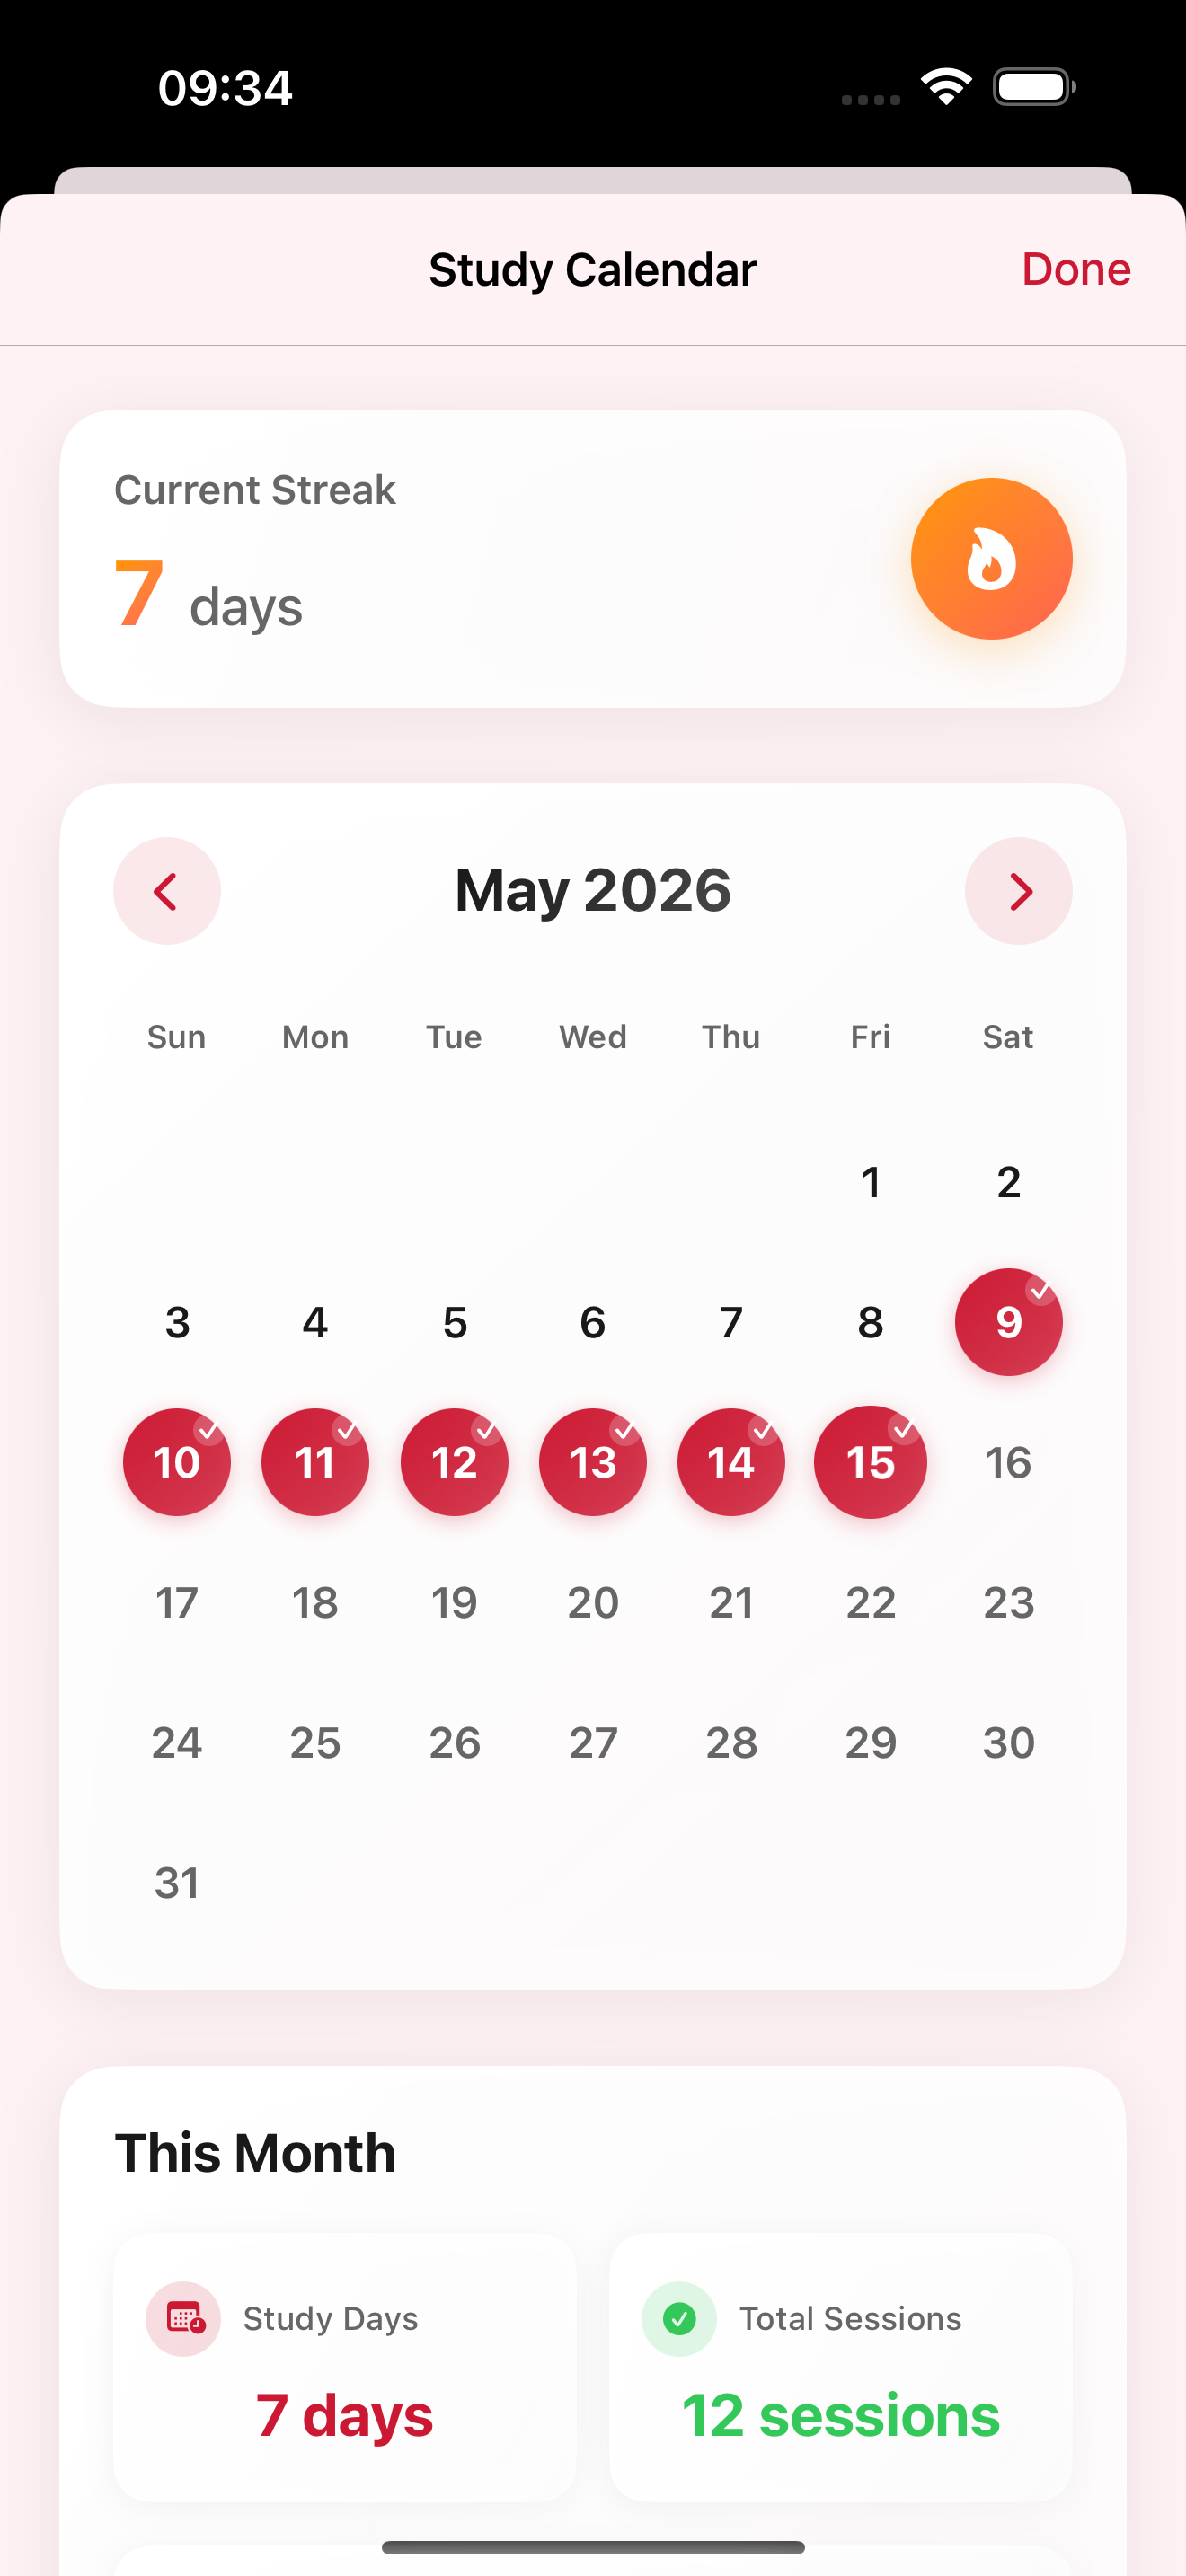
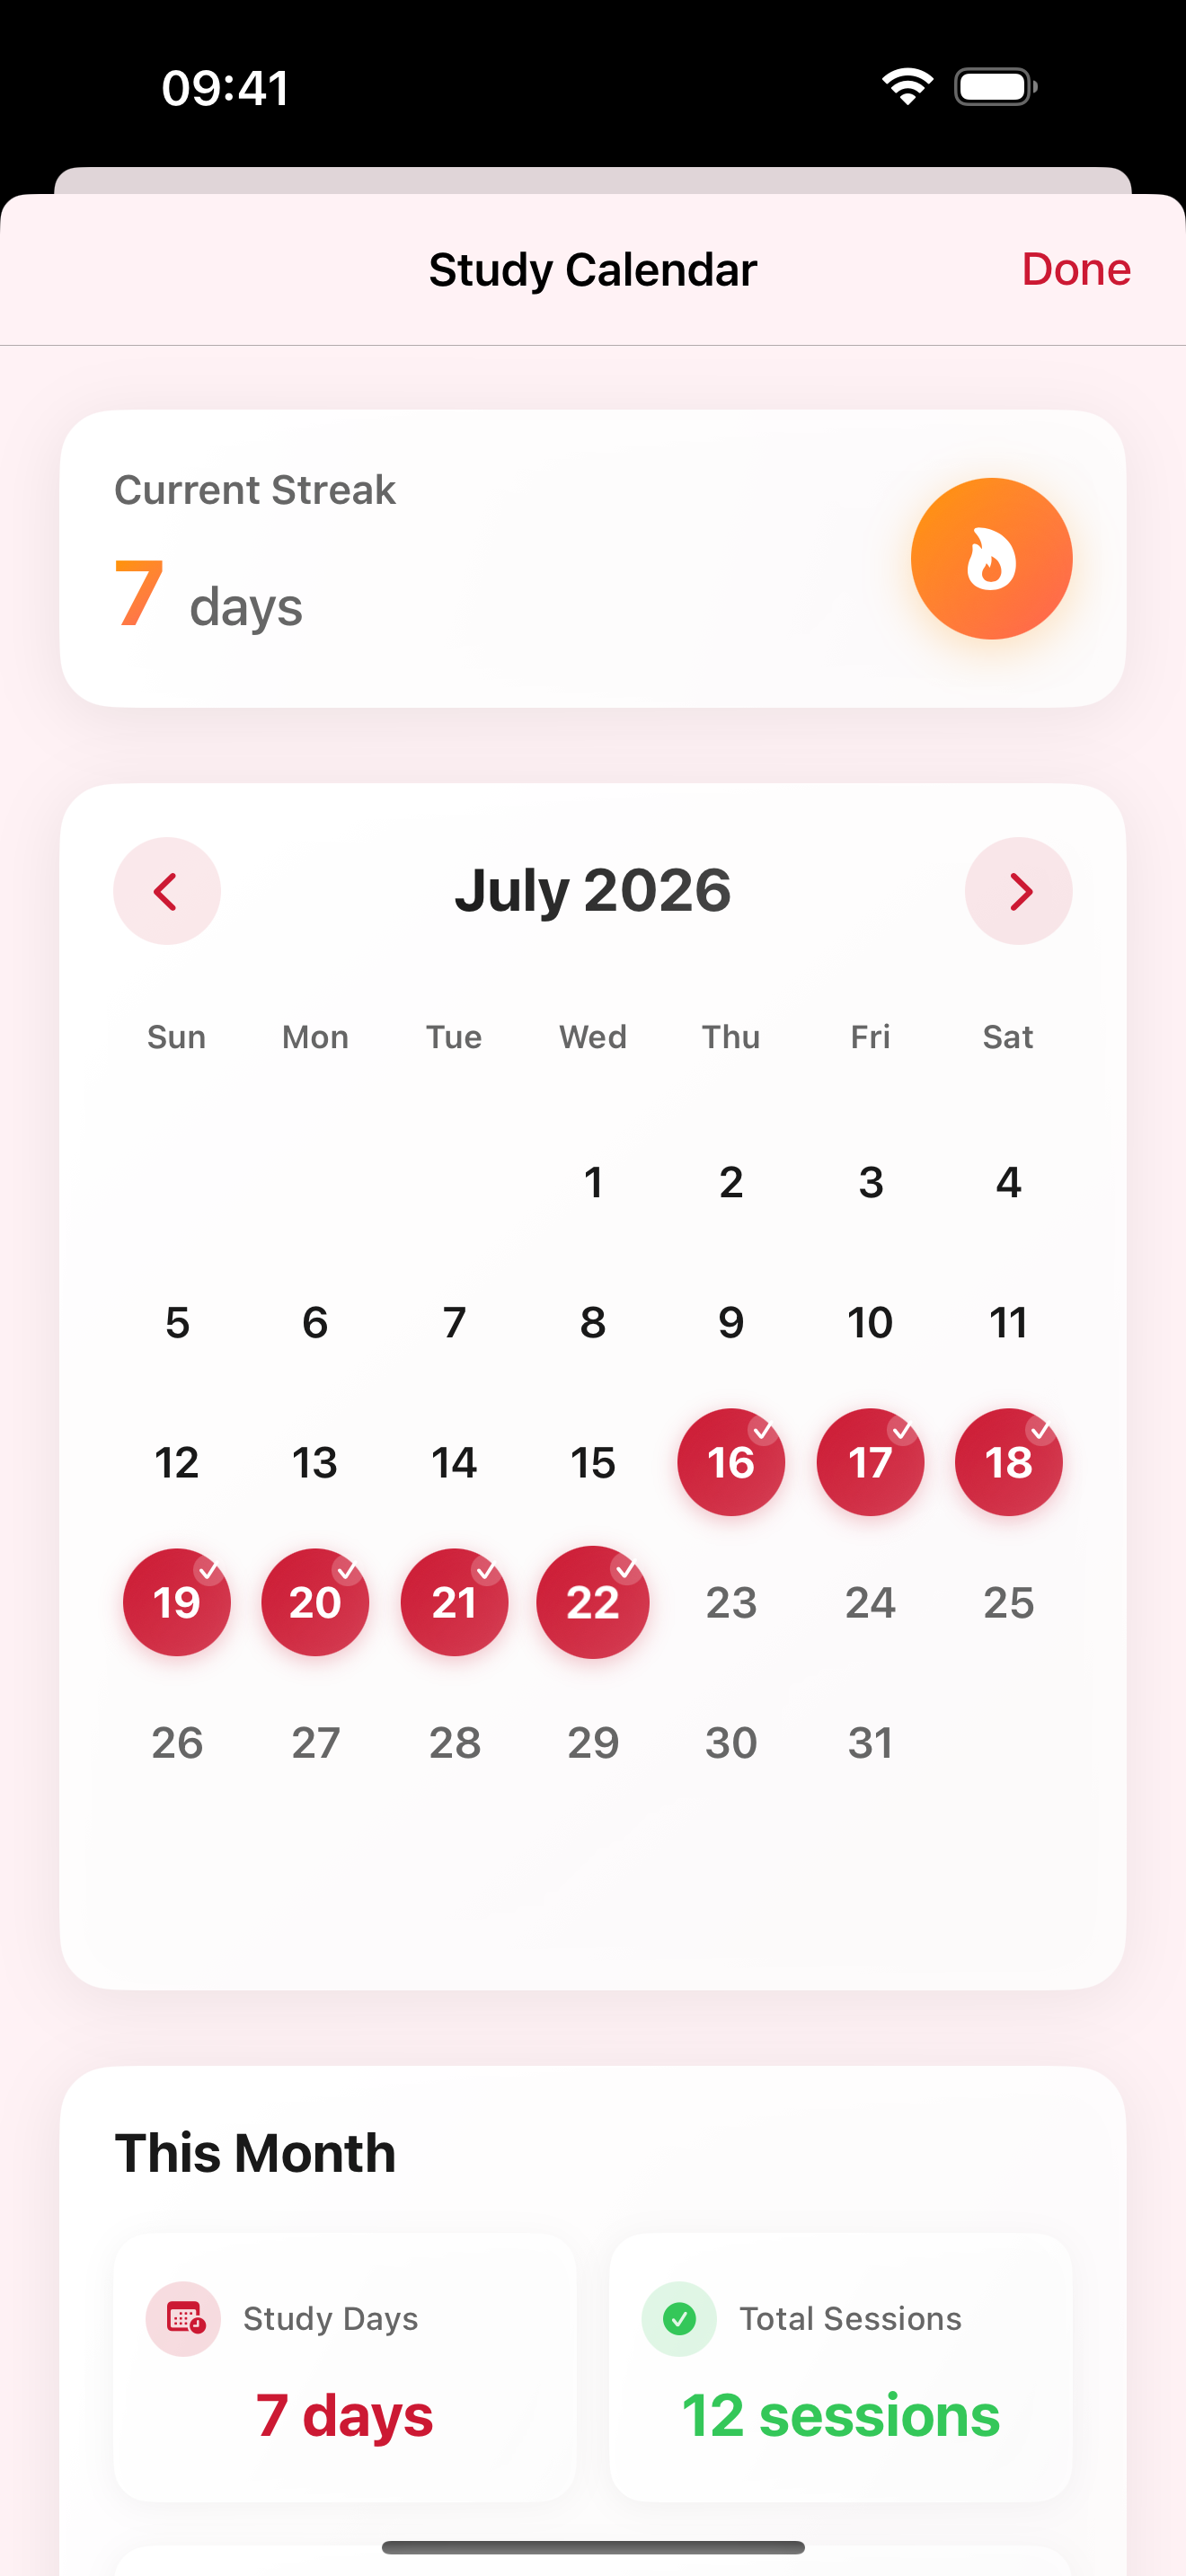
feat: 1.0.1 güncellemesi — canlı App Store linki, yeni özellikler (Odak Sesleri, Baykuş, Watch/iPad) 6 dilde, güncel ekran görüntüleri

diff --git a/index.html b/index.html
@@ -218,7 +218,7 @@
       <h1 class="up" data-i18n="hero_title">Focus in Timed<br />Study Sprints</h1>
       <p class="sub up d1" data-i18n="hero_sub">Beat procrastination with focused study sessions. Set a timer, build daily streaks, and stay motivated — fully offline, no account needed.</p>
       <div class="cta-row up d2">
-        <a class="btn btn-primary" href="#" data-i18n="hero_cta1">Coming Soon to the App Store</a>
+        <a class="btn btn-primary" href="https://apps.apple.com/app/id6788031531" target="_blank" rel="noopener" data-i18n="hero_cta1">Download on the App Store</a>
         <a class="btn btn-dark" href="#features" data-i18n="hero_cta2">See Features</a>
       </div>
       <div class="phones up d4">
@@ -248,7 +248,7 @@
   <!-- FEATURE SPLIT -->
   <section class="band" id="features">
     <div class="wrap split">
-      <div class="phone-single reveal"><img src="./shots/01-home.png" alt="Focus timer" /></div>
+      <div class="phone-single reveal"><img src="./shots/05-owl.png" alt="Your study owl" /></div>
       <div class="reveal d1">
         <span class="eyebrow" data-i18n="f_eyebrow">Smart & Simple</span>
         <h2 class="title" data-i18n="f_title">Everything You Need to Focus</h2>
@@ -257,6 +257,7 @@
           <li><span class="fic">⏱️</span><div><h4 data-i18n="f1_t">Focused Sprints</h4><p data-i18n="f1_d">Pick 20, 40, or a custom duration and start a distraction-free session instantly.</p></div></li>
           <li><span class="fic">🍅</span><div><h4 data-i18n="f2_t">Pomodoro Flow</h4><p data-i18n="f2_d">Proven focus/break cycles keep your mind fresh through long study sessions.</p></div></li>
           <li><span class="fic">🔔</span><div><h4 data-i18n="f3_t">Gentle Reminders</h4><p data-i18n="f3_d">Smart study reminders help you never miss a session.</p></div></li>
+          <li><span class="fic">🎧</span><div><h4 data-i18n="f4_t">Focus Sounds</h4><p data-i18n="f4_d">Mix HD nature ambiances — rain, café, deep space — while you study.</p></div></li>
         </ul>
       </div>
     </div>
@@ -275,6 +276,8 @@
         <div class="card reveal d1"><div class="ic"><svg viewBox="0 0 24 24" fill="none" stroke="currentColor" stroke-width="2" stroke-linecap="round" stroke-linejoin="round"><circle cx="13.5" cy="6.5" r=".5" fill="currentColor"/><circle cx="17.5" cy="10.5" r=".5" fill="currentColor"/><circle cx="8.5" cy="7.5" r=".5" fill="currentColor"/><circle cx="6.5" cy="12.5" r=".5" fill="currentColor"/><path d="M12 2C6.5 2 2 6.5 2 12s4.5 10 10 10c.926 0 1.648-.746 1.648-1.688 0-.437-.18-.835-.437-1.125-.29-.289-.438-.652-.438-1.125a1.64 1.64 0 0 1 1.668-1.668h1.996c3.051 0 5.555-2.503 5.555-5.554C21.965 6.012 17.461 2 12 2z"/></svg></div><h3 data-i18n="g2_t">Beautiful Themes</h3><p data-i18n="g2_d">Pick the color that matches your mood — the app icon even changes to match.</p></div>
         <div class="card reveal d2"><div class="ic"><svg viewBox="0 0 24 24" fill="none" stroke="currentColor" stroke-width="2" stroke-linecap="round" stroke-linejoin="round"><line x1="12" x2="12" y1="20" y2="10"/><line x1="18" x2="18" y1="20" y2="4"/><line x1="6" x2="6" y1="20" y2="16"/></svg></div><h3 data-i18n="g3_t">Progress Insights</h3><p data-i18n="g3_d">See completed sessions and streaks at a glance to stay motivated.</p></div>
         <div class="card reveal d3"><div class="ic"><svg viewBox="0 0 24 24" fill="none" stroke="currentColor" stroke-width="2" stroke-linecap="round" stroke-linejoin="round"><path d="M12 20h.01"/><path d="M8.5 16.429a5 5 0 0 1 7 0"/><path d="M5 12.859a10 10 0 0 1 5.17-2.69"/><path d="M19 12.859a10 10 0 0 0-2.007-1.523"/><path d="M2 8.82a15 15 0 0 1 4.177-2.643"/><path d="M22 8.82a15 15 0 0 0-11.288-3.764"/><path d="m2 2 20 20"/></svg></div><h3 data-i18n="g4_t">100% Offline</h3><p data-i18n="g4_d">No sign-up, no account, no distractions. Your data stays on your device.</p></div>
+        <div class="card reveal"><div class="ic"><svg viewBox="0 0 24 24" fill="none" stroke="currentColor" stroke-width="2" stroke-linecap="round" stroke-linejoin="round"><path d="M12 3c-3.5 0-6 2.6-6 6v5a6 6 0 0 0 12 0V9c0-3.4-2.5-6-6-6Z"/><circle cx="9.5" cy="10" r="1"/><circle cx="14.5" cy="10" r="1"/><path d="M12 13v1"/><path d="m8 3 1.5 2M16 3l-1.5 2"/></svg></div><h3 data-i18n="g5_t">Your Study Owl</h3><p data-i18n="g5_d">Earn coins as you study — unlock rooms, outfits and achievements for your owl.</p></div>
+        <div class="card reveal d1"><div class="ic"><svg viewBox="0 0 24 24" fill="none" stroke="currentColor" stroke-width="2" stroke-linecap="round" stroke-linejoin="round"><rect width="7" height="12" x="2" y="6" rx="1"/><path d="M5.5 4v2M5.5 18v2"/><rect width="10" height="14" x="12" y="5" rx="1.5"/><path d="M16 17h2"/></svg></div><h3 data-i18n="g6_t">Watch & iPad</h3><p data-i18n="g6_d">Start sprints from your wrist with the Apple Watch app — now with full iPad support.</p></div>
       </div>
     </div>
   </section>
@@ -299,8 +302,8 @@
     <div class="wrap">
       <div class="cta reveal">
         <h2 data-i18n="cta_title">Turn Scattered Hours into Focused Sprints</h2>
-        <p data-i18n="cta_sub">Study Sprint Timer is launching soon on the App Store. Simple, offline, and built to help you focus.</p>
-        <a class="btn btn-ghost" href="./support.html" data-i18n="cta_btn">Get Notified</a>
+        <p data-i18n="cta_sub">Study Sprint Timer is now on the App Store. Simple, offline, and built to help you focus.</p>
+        <a class="btn btn-ghost" href="https://apps.apple.com/app/id6788031531" target="_blank" rel="noopener" data-i18n="cta_btn">Download Now</a>
       </div>
     </div>
   </section>
@@ -313,7 +316,7 @@
         <div>
           <a class="brand" href="./index.html"><img src="./icon.png" alt="" style="width:34px;height:34px;border-radius:9px;" /> Study Sprint</a>
           <p class="desc" data-i18n="ft_desc">Focus, Pomodoro & streaks — a simple offline study timer for everyday focus.</p>
-          <span class="ft-badge"><span class="dot"></span> <span data-i18n="ft_badge">Coming soon to the App Store</span></span>
+          <span class="ft-badge"><span class="dot"></span> <span data-i18n="ft_badge">Now on the App Store</span></span>
         </div>
         <div>
           <h5 data-i18n="ft_productH">Product</h5>
@@ -348,7 +351,7 @@
         nav_home:`Home`, nav_features:`Features`, nav_reviews:`Reviews`, nav_support:`Support`, nav_help:`Get Help`,
         hero_title:`Focus in Timed<br />Study Sprints`,
         hero_sub:`Beat procrastination with focused study sessions. Set a timer, build daily streaks, and stay motivated — fully offline, no account needed.`,
-        hero_cta1:`Coming Soon to the App Store`, hero_cta2:`See Features`,
+        hero_cta1:`Download on the App Store`, hero_cta2:`See Features`,
         p_eyebrow:`The Struggle`, p_title:`Studying Without Structure Feels Hard`,
         p_sub:`Focus is easy to lose and hard to rebuild. Most study tools are cluttered, online-only, or simply get in the way.`,
         p1_t:`Endless Distractions`, p1_d:`Notifications and open tabs pull your attention away the moment you sit down to study.`,
@@ -359,18 +362,21 @@
         f1_t:`Focused Sprints`, f1_d:`Pick 20, 40, or a custom duration and start a distraction-free session instantly.`,
         f2_t:`Pomodoro Flow`, f2_d:`Proven focus/break cycles keep your mind fresh through long study sessions.`,
         f3_t:`Gentle Reminders`, f3_d:`Smart study reminders help you never miss a session.`,
+        f4_t:`Focus Sounds`, f4_d:`Mix HD nature ambiances — rain, café, deep space — while you study.`,
         g_eyebrow:`Smart Features`, g_title:`Designed for Simple Daily Study`,
         g_sub:`Every feature guides you gently — turning study time into clear progress and a habit that sticks.`,
         g1_t:`Daily Streaks`, g1_d:`Build a study habit that lasts. Watch your streak grow one day at a time.`,
         g2_t:`Beautiful Themes`, g2_d:`Pick the color that matches your mood — the app icon even changes to match.`,
         g3_t:`Progress Insights`, g3_d:`See completed sessions and streaks at a glance to stay motivated.`,
         g4_t:`100% Offline`, g4_d:`No sign-up, no account, no distractions. Your data stays on your device.`,
+        g5_t:`Your Study Owl`, g5_d:`Earn coins as you study — unlock rooms, outfits and achievements for your owl.`,
+        g6_t:`Watch & iPad`, g6_d:`Start sprints from your wrist with the Apple Watch app — now with full iPad support.`,
         r_eyebrow:`Loved by Students`, r_title:`Study Companions, Not Chores`,
         q1:`"Feels less like a strict timer and more like a calm study buddy that keeps me going."`, q1_role:`Student`,
         q2:`"My streak hit 21 days — I've genuinely never been this consistent with studying."`, q2_role:`Grad Student`,
         q3:`"Clean, quiet, and works fully offline. Exactly the focus tool I was missing."`, q3_role:`Designer`,
-        cta_title:`Turn Scattered Hours into Focused Sprints`, cta_sub:`Study Sprint Timer is launching soon on the App Store. Simple, offline, and built to help you focus.`, cta_btn:`Get Notified`,
-        ft_desc:`Focus, Pomodoro & streaks — a simple offline study timer for everyday focus.`, ft_badge:`Coming soon to the App Store`,
+        cta_title:`Turn Scattered Hours into Focused Sprints`, cta_sub:`Study Sprint Timer is now on the App Store. Simple, offline, and built to help you focus.`, cta_btn:`Download Now`,
+        ft_desc:`Focus, Pomodoro & streaks — a simple offline study timer for everyday focus.`, ft_badge:`Now on the App Store`,
         ft_productH:`Product`, ft_supportH:`Support`, ft_legalH:`Legal`,
         ft_features:`Features`, ft_how:`How It Works`, ft_reviews:`Reviews`, ft_help:`Help Center`, ft_contact:`Contact Us`, ft_privacy:`Privacy Policy`, ft_terms:`Terms of Service`,
         ft_copy:`© 2026 Study Sprint Timer · Harun Doğdu`
@@ -379,7 +385,7 @@
         nav_home:`Ana Sayfa`, nav_features:`Özellikler`, nav_reviews:`Yorumlar`, nav_support:`Destek`, nav_help:`Yardım Al`,
         hero_title:`Zamanlı Çalışma<br />Sprint'leriyle Odaklan`,
         hero_sub:`Odaklı çalışma seanslarıyla erteleme alışkanlığını yen. Zamanlayıcıyı kur, günlük seriler oluştur ve motive kal — tamamen çevrimdışı, hesap gerekmez.`,
-        hero_cta1:`Yakında App Store'da`, hero_cta2:`Özellikleri Gör`,
+        hero_cta1:`App Store'dan İndir`, hero_cta2:`Özellikleri Gör`,
         p_eyebrow:`Zorluk`, p_title:`Düzensiz Çalışmak Zor Geliyor`,
         p_sub:`Odak kolayca kaybolur, yeniden kurmak zordur. Çoğu çalışma aracı karmaşık, yalnızca çevrimiçi ya da yolunda engeldir.`,
         p1_t:`Bitmeyen Dikkat Dağınıklığı`, p1_d:`Çalışmaya oturduğun an bildirimler ve açık sekmeler dikkatini dağıtır.`,
@@ -390,18 +396,21 @@
         f1_t:`Odaklı Sprint'ler`, f1_d:`20, 40 veya özel bir süre seç ve anında dikkat dağıtmayan bir seans başlat.`,
         f2_t:`Pomodoro Akışı`, f2_d:`Kanıtlanmış odak/mola döngüleri uzun seanslarda zihnini zinde tutar.`,
         f3_t:`Nazik Hatırlatıcılar`, f3_d:`Akıllı çalışma hatırlatıcıları hiçbir seansı kaçırmamanı sağlar.`,
+        f4_t:`Odak Sesleri`, f4_d:`Çalışırken HD doğa ambiyanslarını karıştır — yağmur, kafe, derin uzay.`,
         g_eyebrow:`Akıllı Özellikler`, g_title:`Basit Günlük Çalışma İçin Tasarlandı`,
         g_sub:`Her özellik seni nazikçe yönlendirir — çalışma zamanını net ilerlemeye ve kalıcı bir alışkanlığa dönüştürür.`,
         g1_t:`Günlük Seriler`, g1_d:`Kalıcı bir çalışma alışkanlığı oluştur. Serini her gün büyürken izle.`,
         g2_t:`Güzel Temalar`, g2_d:`Ruh hâline uyan rengi seç — uygulama ikonu bile buna göre değişir.`,
         g3_t:`İlerleme Görünümü`, g3_d:`Tamamlanan seansları ve serileri tek bakışta gör, motive kal.`,
         g4_t:`%100 Çevrimdışı`, g4_d:`Kayıt yok, hesap yok, dikkat dağıtan yok. Verilerin cihazında kalır.`,
+        g5_t:`Çalışma Baykuşun`, g5_d:`Çalıştıkça coin kazan — baykuşun için odalar, kostümler ve başarımlar aç.`,
+        g6_t:`Watch ve iPad`, g6_d:`Apple Watch uygulamasıyla sprintleri bileğinden başlat — artık tam iPad desteğiyle.`,
         r_eyebrow:`Öğrenciler Seviyor`, r_title:`Yük Değil, Çalışma Arkadaşı`,
         q1:`"Katı bir zamanlayıcıdan çok, beni motive eden sakin bir çalışma arkadaşı gibi."`, q1_role:`Öğrenci`,
         q2:`"Serim 21 güne ulaştı — çalışmada hiç bu kadar istikrarlı olmamıştım."`, q2_role:`Yüksek Lisans Öğrencisi`,
         q3:`"Sade, sessiz ve tamamen çevrimdışı çalışıyor. Tam da eksik olan odak aracı."`, q3_role:`Tasarımcı`,
-        cta_title:`Dağınık Saatleri Odaklı Sprint'lere Çevir`, cta_sub:`Study Sprint Timer yakında App Store'da. Basit, çevrimdışı ve odaklanmana yardımcı olacak şekilde tasarlandı.`, cta_btn:`Haber Ver`,
-        ft_desc:`Odak, Pomodoro ve seriler — günlük odak için basit, çevrimdışı bir çalışma zamanlayıcısı.`, ft_badge:`Yakında App Store'da`,
+        cta_title:`Dağınık Saatleri Odaklı Sprint'lere Çevir`, cta_sub:`Study Sprint Timer artık App Store'da. Basit, çevrimdışı ve odaklanmana yardımcı olacak şekilde tasarlandı.`, cta_btn:`Hemen İndir`,
+        ft_desc:`Odak, Pomodoro ve seriler — günlük odak için basit, çevrimdışı bir çalışma zamanlayıcısı.`, ft_badge:`Artık App Store'da`,
         ft_productH:`Ürün`, ft_supportH:`Destek`, ft_legalH:`Yasal`,
         ft_features:`Özellikler`, ft_how:`Nasıl Çalışır`, ft_reviews:`Yorumlar`, ft_help:`Yardım Merkezi`, ft_contact:`Bize Ulaşın`, ft_privacy:`Gizlilik Politikası`, ft_terms:`Kullanım Şartları`,
         ft_copy:`© 2026 Study Sprint Timer · Harun Doğdu`
@@ -410,7 +419,7 @@
         nav_home:`Start`, nav_features:`Funktionen`, nav_reviews:`Bewertungen`, nav_support:`Support`, nav_help:`Hilfe`,
         hero_title:`Fokussiert lernen in<br />getakteten Sprints`,
         hero_sub:`Überwinde Aufschieberei mit fokussierten Lernsessions. Timer stellen, tägliche Serien aufbauen und motiviert bleiben — komplett offline, kein Konto nötig.`,
-        hero_cta1:`Bald im App Store`, hero_cta2:`Funktionen ansehen`,
+        hero_cta1:`Jetzt im App Store laden`, hero_cta2:`Funktionen ansehen`,
         p_eyebrow:`Die Herausforderung`, p_title:`Lernen ohne Struktur fällt schwer`,
         p_sub:`Fokus geht leicht verloren und ist schwer wiederherzustellen. Die meisten Lern-Tools sind überladen, nur online oder einfach im Weg.`,
         p1_t:`Endlose Ablenkungen`, p1_d:`Benachrichtigungen und offene Tabs ziehen deine Aufmerksamkeit ab, sobald du dich hinsetzt.`,
@@ -421,18 +430,21 @@
         f1_t:`Fokussierte Sprints`, f1_d:`Wähle 20, 40 oder eine eigene Dauer und starte sofort eine ablenkungsfreie Session.`,
         f2_t:`Pomodoro-Flow`, f2_d:`Bewährte Fokus-/Pausen-Zyklen halten deinen Kopf auch bei langen Sessions frisch.`,
         f3_t:`Sanfte Erinnerungen`, f3_d:`Smarte Lern-Erinnerungen sorgen dafür, dass du keine Session verpasst.`,
+        f4_t:`Fokus-Sounds`, f4_d:`Mische HD-Naturambiente — Regen, Café, Weltall — während du lernst.`,
         g_eyebrow:`Smarte Funktionen`, g_title:`Für einfaches tägliches Lernen gemacht`,
         g_sub:`Jede Funktion leitet dich sanft — sie macht Lernzeit zu klarem Fortschritt und einer bleibenden Gewohnheit.`,
         g1_t:`Tägliche Serien`, g1_d:`Baue eine dauerhafte Lerngewohnheit auf. Sieh deiner Serie beim Wachsen zu.`,
         g2_t:`Schöne Themes`, g2_d:`Wähle die Farbe, die zu deiner Stimmung passt — sogar das App-Icon passt sich an.`,
         g3_t:`Fortschritts-Einblicke`, g3_d:`Sieh abgeschlossene Sessions und Serien auf einen Blick und bleib motiviert.`,
         g4_t:`100 % Offline`, g4_d:`Keine Anmeldung, kein Konto, keine Ablenkung. Deine Daten bleiben auf deinem Gerät.`,
+        g5_t:`Deine Lern-Eule`, g5_d:`Verdiene Coins beim Lernen — schalte Räume, Outfits und Erfolge für deine Eule frei.`,
+        g6_t:`Watch & iPad`, g6_d:`Starte Sprints mit der Apple-Watch-App vom Handgelenk — jetzt mit voller iPad-Unterstützung.`,
         r_eyebrow:`Von Lernenden geliebt`, r_title:`Lernbegleiter statt Pflicht`,
         q1:`„Fühlt sich weniger wie ein strenger Timer an und mehr wie ein ruhiger Lernbuddy."`, q1_role:`Studentin`,
         q2:`„Meine Serie liegt bei 21 Tagen — so konstant war ich beim Lernen noch nie."`, q2_role:`Masterstudent`,
         q3:`„Klar, ruhig und komplett offline. Genau das Fokus-Tool, das mir gefehlt hat."`, q3_role:`Designerin`,
-        cta_title:`Mach aus verstreuten Stunden fokussierte Sprints`, cta_sub:`Study Sprint Timer erscheint bald im App Store. Einfach, offline und fürs Fokussieren gemacht.`, cta_btn:`Benachrichtigen`,
-        ft_desc:`Fokus, Pomodoro & Serien — ein einfacher, offline Lern-Timer für den Alltag.`, ft_badge:`Bald im App Store`,
+        cta_title:`Mach aus verstreuten Stunden fokussierte Sprints`, cta_sub:`Study Sprint Timer ist jetzt im App Store. Einfach, offline und fürs Fokussieren gemacht.`, cta_btn:`Jetzt laden`,
+        ft_desc:`Fokus, Pomodoro & Serien — ein einfacher, offline Lern-Timer für den Alltag.`, ft_badge:`Jetzt im App Store`,
         ft_productH:`Produkt`, ft_supportH:`Support`, ft_legalH:`Rechtliches`,
         ft_features:`Funktionen`, ft_how:`So funktioniert's`, ft_reviews:`Bewertungen`, ft_help:`Hilfe-Center`, ft_contact:`Kontakt`, ft_privacy:`Datenschutz`, ft_terms:`Nutzungsbedingungen`,
         ft_copy:`© 2026 Study Sprint Timer · Harun Doğdu`
@@ -441,7 +453,7 @@
         nav_home:`Inicio`, nav_features:`Funciones`, nav_reviews:`Opiniones`, nav_support:`Soporte`, nav_help:`Ayuda`,
         hero_title:`Concéntrate en sprints<br />de estudio cronometrados`,
         hero_sub:`Vence la procrastinación con sesiones de estudio enfocadas. Pon un temporizador, crea rachas diarias y mantén la motivación — totalmente sin conexión, sin cuenta.`,
-        hero_cta1:`Pronto en la App Store`, hero_cta2:`Ver funciones`,
+        hero_cta1:`Descargar en la App Store`, hero_cta2:`Ver funciones`,
         p_eyebrow:`El reto`, p_title:`Estudiar sin estructura se hace difícil`,
         p_sub:`La concentración se pierde fácil y cuesta recuperarla. La mayoría de apps son recargadas, solo en línea o simplemente estorban.`,
         p1_t:`Distracciones sin fin`, p1_d:`Las notificaciones y las pestañas abiertas roban tu atención en cuanto te sientas a estudiar.`,
@@ -452,18 +464,21 @@
         f1_t:`Sprints enfocados`, f1_d:`Elige 20, 40 o una duración personalizada y empieza al instante sin distracciones.`,
         f2_t:`Flujo Pomodoro`, f2_d:`Ciclos probados de enfoque/descanso mantienen tu mente fresca en sesiones largas.`,
         f3_t:`Recordatorios suaves`, f3_d:`Recordatorios inteligentes te ayudan a no perder ninguna sesión.`,
+        f4_t:`Sonidos de enfoque`, f4_d:`Mezcla ambientes HD de naturaleza — lluvia, café, espacio — mientras estudias.`,
         g_eyebrow:`Funciones inteligentes`, g_title:`Diseñada para estudiar a diario con simplicidad`,
         g_sub:`Cada función te guía con suavidad — convierte el tiempo de estudio en progreso claro y un hábito que perdura.`,
         g1_t:`Rachas diarias`, g1_d:`Crea un hábito de estudio duradero. Mira crecer tu racha día a día.`,
         g2_t:`Temas bonitos`, g2_d:`Elige el color que va con tu ánimo — hasta el icono de la app cambia para combinar.`,
         g3_t:`Perspectivas de progreso`, g3_d:`Ve tus sesiones completadas y rachas de un vistazo para mantener la motivación.`,
         g4_t:`100 % sin conexión`, g4_d:`Sin registro, sin cuenta, sin distracciones. Tus datos se quedan en tu dispositivo.`,
+        g5_t:`Tu búho de estudio`, g5_d:`Gana monedas al estudiar — desbloquea salas, atuendos y logros para tu búho.`,
+        g6_t:`Watch y iPad`, g6_d:`Inicia sprints desde tu muñeca con la app de Apple Watch — ahora con soporte completo para iPad.`,
         r_eyebrow:`Adorada por estudiantes`, r_title:`Compañeros de estudio, no tareas`,
         q1:`"Se siente menos como un temporizador estricto y más como un tranquilo compañero de estudio."`, q1_role:`Estudiante`,
         q2:`"Mi racha llegó a 21 días — nunca había sido tan constante estudiando."`, q2_role:`Estudiante de posgrado`,
         q3:`"Limpia, silenciosa y funciona sin conexión. Justo la herramienta de enfoque que me faltaba."`, q3_role:`Diseñadora`,
-        cta_title:`Convierte horas dispersas en sprints enfocados`, cta_sub:`Study Sprint Timer llegará pronto a la App Store. Simple, sin conexión y hecha para ayudarte a concentrarte.`, cta_btn:`Avísame`,
-        ft_desc:`Enfoque, Pomodoro y rachas — un temporizador de estudio simple y sin conexión para el día a día.`, ft_badge:`Pronto en la App Store`,
+        cta_title:`Convierte horas dispersas en sprints enfocados`, cta_sub:`Study Sprint Timer ya está en la App Store. Simple, sin conexión y hecho para ayudarte a concentrarte.`, cta_btn:`Descargar ahora`,
+        ft_desc:`Enfoque, Pomodoro y rachas — un temporizador de estudio simple y sin conexión para el día a día.`, ft_badge:`Ya en la App Store`,
         ft_productH:`Producto`, ft_supportH:`Soporte`, ft_legalH:`Legal`,
         ft_features:`Funciones`, ft_how:`Cómo funciona`, ft_reviews:`Opiniones`, ft_help:`Centro de ayuda`, ft_contact:`Contáctanos`, ft_privacy:`Política de privacidad`, ft_terms:`Términos del servicio`,
         ft_copy:`© 2026 Study Sprint Timer · Harun Doğdu`
@@ -472,7 +487,7 @@
         nav_home:`Accueil`, nav_features:`Fonctionnalités`, nav_reviews:`Avis`, nav_support:`Support`, nav_help:`Aide`,
         hero_title:`Concentrez-vous par<br />sprints d'étude minutés`,
         hero_sub:`Vainquez la procrastination avec des sessions d'étude concentrées. Lancez un minuteur, bâtissez des séries quotidiennes et restez motivé — 100 % hors ligne, sans compte.`,
-        hero_cta1:`Bientôt sur l'App Store`, hero_cta2:`Voir les fonctionnalités`,
+        hero_cta1:`Télécharger sur l'App Store`, hero_cta2:`Voir les fonctionnalités`,
         p_eyebrow:`Le défi`, p_title:`Étudier sans structure, c'est difficile`,
         p_sub:`La concentration se perd vite et se reconstruit mal. La plupart des outils sont surchargés, uniquement en ligne ou tout simplement gênants.`,
         p1_t:`Distractions sans fin`, p1_d:`Notifications et onglets ouverts détournent votre attention dès que vous vous asseyez.`,
@@ -483,18 +498,21 @@
         f1_t:`Sprints concentrés`, f1_d:`Choisissez 20, 40 ou une durée personnalisée et démarrez aussitôt sans distraction.`,
         f2_t:`Flux Pomodoro`, f2_d:`Des cycles concentration/pause éprouvés gardent l'esprit frais sur les longues sessions.`,
         f3_t:`Rappels bienveillants`, f3_d:`Des rappels d'étude malins vous évitent de manquer une session.`,
+        f4_t:`Sons de concentration`, f4_d:`Mixez des ambiances nature en HD — pluie, café, espace — pendant que vous étudiez.`,
         g_eyebrow:`Fonctions malines`, g_title:`Conçue pour une étude quotidienne simple`,
         g_sub:`Chaque fonction vous guide en douceur — elle transforme le temps d'étude en progrès clair et en habitude durable.`,
         g1_t:`Séries quotidiennes`, g1_d:`Installez une habitude d'étude durable. Regardez votre série grandir jour après jour.`,
         g2_t:`Beaux thèmes`, g2_d:`Choisissez la couleur qui colle à votre humeur — même l'icône de l'appli s'adapte.`,
         g3_t:`Aperçu des progrès`, g3_d:`Voyez sessions terminées et séries d'un coup d'œil pour rester motivé.`,
         g4_t:`100 % hors ligne`, g4_d:`Pas d'inscription, pas de compte, pas de distraction. Vos données restent sur votre appareil.`,
+        g5_t:`Votre chouette d'étude`, g5_d:`Gagnez des pièces en étudiant — débloquez salles, tenues et succès pour votre chouette.`,
+        g6_t:`Watch et iPad`, g6_d:`Lancez des sprints depuis votre poignet avec l'app Apple Watch — désormais avec prise en charge complète de l'iPad.`,
         r_eyebrow:`Adorée des étudiants`, r_title:`Des compagnons d'étude, pas des corvées`,
         q1:`« On dirait moins un minuteur strict qu'un compagnon d'étude apaisant qui me fait avancer. »`, q1_role:`Étudiante`,
         q2:`« Ma série atteint 21 jours — je n'ai jamais été aussi régulier dans mes études. »`, q2_role:`Étudiant en master`,
         q3:`« Épuré, silencieux et 100 % hors ligne. Exactement l'outil de concentration qu'il me manquait. »`, q3_role:`Designer`,
-        cta_title:`Transformez des heures éparpillées en sprints concentrés`, cta_sub:`Study Sprint Timer arrive bientôt sur l'App Store. Simple, hors ligne et pensé pour vous aider à vous concentrer.`, cta_btn:`Être averti`,
-        ft_desc:`Concentration, Pomodoro & séries — un minuteur d'étude simple et hors ligne pour tous les jours.`, ft_badge:`Bientôt sur l'App Store`,
+        cta_title:`Transformez des heures éparpillées en sprints concentrés`, cta_sub:`Study Sprint Timer est maintenant sur l'App Store. Simple, hors ligne et conçu pour vous aider à vous concentrer.`, cta_btn:`Télécharger`,
+        ft_desc:`Concentration, Pomodoro & séries — un minuteur d'étude simple et hors ligne pour tous les jours.`, ft_badge:`Maintenant sur l'App Store`,
         ft_productH:`Produit`, ft_supportH:`Support`, ft_legalH:`Légal`,
         ft_features:`Fonctionnalités`, ft_how:`Comment ça marche`, ft_reviews:`Avis`, ft_help:`Centre d'aide`, ft_contact:`Nous contacter`, ft_privacy:`Politique de confidentialité`, ft_terms:`Conditions d'utilisation`,
         ft_copy:`© 2026 Study Sprint Timer · Harun Doğdu`
@@ -503,7 +521,7 @@
         nav_home:`Главная`, nav_features:`Функции`, nav_reviews:`Отзывы`, nav_support:`Поддержка`, nav_help:`Помощь`,
         hero_title:`Фокус в таймерных<br />учебных спринтах`,
         hero_sub:`Победите прокрастинацию с помощью сфокусированных учебных сессий. Ставьте таймер, набирайте ежедневные серии и оставайтесь мотивированными — полностью офлайн, без аккаунта.`,
-        hero_cta1:`Скоро в App Store`, hero_cta2:`Смотреть функции`,
+        hero_cta1:`Загрузить в App Store`, hero_cta2:`Смотреть функции`,
         p_eyebrow:`Проблема`, p_title:`Учиться без структуры тяжело`,
         p_sub:`Концентрацию легко потерять и трудно восстановить. Большинство инструментов перегружены, работают только онлайн или просто мешают.`,
         p1_t:`Бесконечные отвлечения`, p1_d:`Уведомления и открытые вкладки крадут внимание, как только вы садитесь за учёбу.`,
@@ -514,18 +532,21 @@
         f1_t:`Сфокусированные спринты`, f1_d:`Выберите 20, 40 минут или свою длительность и мгновенно начните сессию без отвлечений.`,
         f2_t:`Поток Pomodoro`, f2_d:`Проверенные циклы фокус/перерыв сохраняют ясность ума в долгих сессиях.`,
         f3_t:`Мягкие напоминания`, f3_d:`Умные напоминания об учёбе помогают не пропустить сессию.`,
+        f4_t:`Звуки фокуса`, f4_d:`Смешивайте HD-эмбиенты природы — дождь, кафе, космос — пока занимаетесь.`,
         g_eyebrow:`Умные функции`, g_title:`Создано для простой ежедневной учёбы`,
         g_sub:`Каждая функция мягко направляет вас — превращает время учёбы в понятный прогресс и стойкую привычку.`,
         g1_t:`Ежедневные серии`, g1_d:`Формируйте стойкую привычку к учёбе. Наблюдайте, как растёт ваша серия день за днём.`,
         g2_t:`Красивые темы`, g2_d:`Выберите цвет под настроение — даже иконка приложения меняется в тон.`,
         g3_t:`Обзор прогресса`, g3_d:`Видите завершённые сессии и серии с одного взгляда, чтобы оставаться мотивированными.`,
         g4_t:`100% офлайн`, g4_d:`Без регистрации, без аккаунта, без отвлечений. Ваши данные остаются на устройстве.`,
+        g5_t:`Ваша учебная сова`, g5_d:`Зарабатывайте монеты за учёбу — открывайте комнаты, наряды и достижения для совы.`,
+        g6_t:`Watch и iPad`, g6_d:`Запускайте спринты с запястья через приложение для Apple Watch — теперь с полной поддержкой iPad.`,
         r_eyebrow:`Любимо студентами`, r_title:`Спутники в учёбе, а не рутина`,
         q1:`«Ощущается не как строгий таймер, а как спокойный напарник по учёбе, который поддерживает.»`, q1_role:`Студентка`,
         q2:`«Моя серия достигла 21 дня — я никогда не был так последователен в учёбе.»`, q2_role:`Магистрант`,
         q3:`«Чисто, тихо и полностью офлайн. Именно тот инструмент фокуса, которого мне не хватало.»`, q3_role:`Дизайнер`,
-        cta_title:`Превратите разрозненные часы в сфокусированные спринты`, cta_sub:`Study Sprint Timer скоро выйдет в App Store. Просто, офлайн и создано, чтобы помочь вам сосредоточиться.`, cta_btn:`Сообщить`,
-        ft_desc:`Фокус, Pomodoro и серии — простой офлайн-таймер для ежедневной учёбы.`, ft_badge:`Скоро в App Store`,
+        cta_title:`Превратите разрозненные часы в сфокусированные спринты`, cta_sub:`Study Sprint Timer уже в App Store. Просто, офлайн и создано, чтобы помочь вам сосредоточиться.`, cta_btn:`Скачать`,
+        ft_desc:`Фокус, Pomodoro и серии — простой офлайн-таймер для ежедневной учёбы.`, ft_badge:`Уже в App Store`,
         ft_productH:`Продукт`, ft_supportH:`Поддержка`, ft_legalH:`Правовое`,
         ft_features:`Функции`, ft_how:`Как это работает`, ft_reviews:`Отзывы`, ft_help:`Центр помощи`, ft_contact:`Связаться`, ft_privacy:`Политика конфиденциальности`, ft_terms:`Условия использования`,
         ft_copy:`© 2026 Study Sprint Timer · Harun Doğdu`